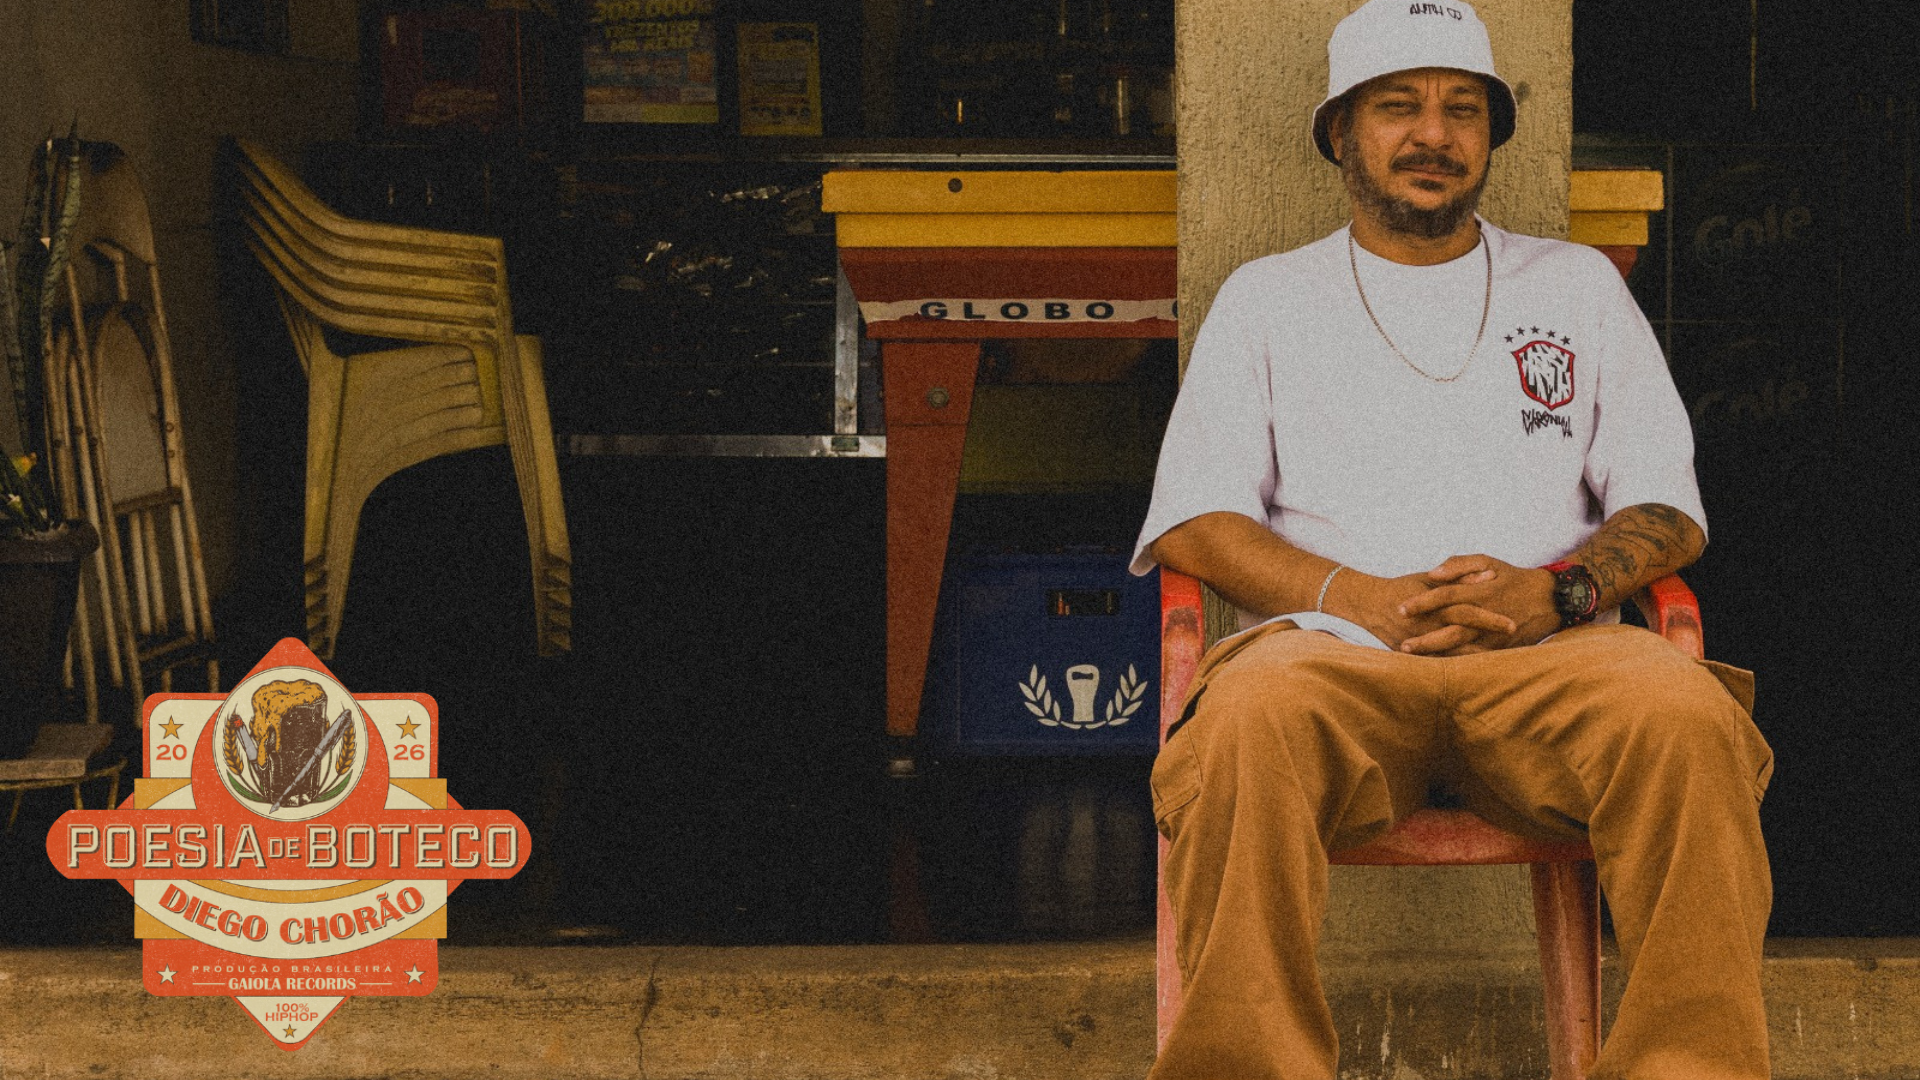
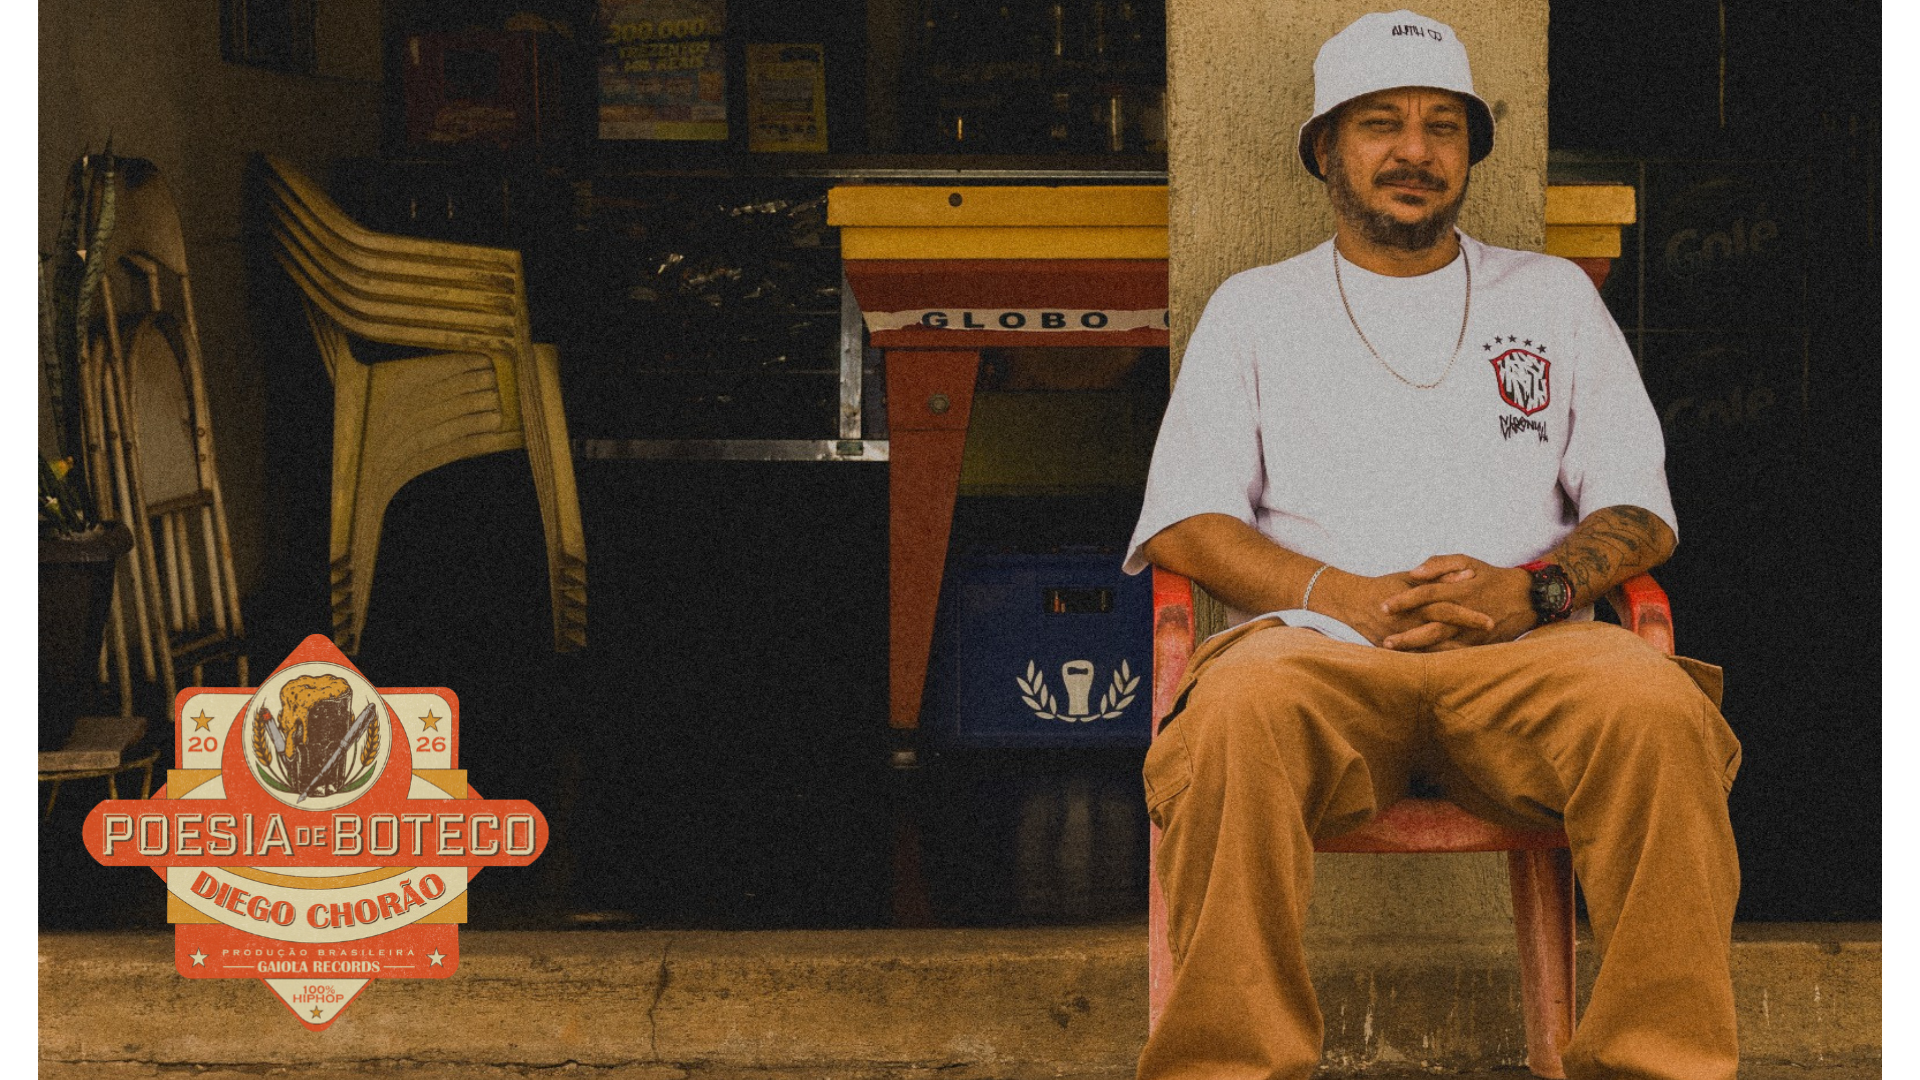
style: reduz espacamentos verticais apenas no mobile e atualiza bg

diff --git a/diego-chorao.html b/diego-chorao.html
@@ -171,7 +171,7 @@
     <div class="bg-[#0A0A0A]/85 backdrop-blur-sm border border-surface-variant p-4 md:p-6 rounded-2xl shadow-2xl w-full">
         <!-- Event Section Carousel -->
         <div class="relative overflow-hidden" id="shows-carousel">
-<div class="mb-4 md:mb-12 text-center w-full">
+<div class="mb-2 md:mb-12 text-center w-full">
 <div class="flex items-center justify-center gap-2 md:gap-6 w-full px-2 h-[64px] md:h-auto">
 <button onclick="prevSlide()" class="group flex items-center gap-1 md:gap-2 cursor-pointer transition-all shrink-0">
 <span class="text-[10px] font-bold tracking-widest opacity-40 group-hover:opacity-100 group-hover:text-primary transition-all uppercase hidden md:block">ANTERIOR</span>
@@ -195,7 +195,7 @@
 </button>
 
 <!-- Carousel Content -->
-<div class="w-full overflow-hidden pb-8 pt-4">
+<div class="w-full overflow-hidden pb-2 md:pb-8 pt-4">
 <div id="carousel-track" class="flex transition-transform duration-500 ease-in-out w-full" style="transform: translateX(0%);">
     
     <!-- Slide 1: Lançamento Poesia de Boteco -->
@@ -302,11 +302,11 @@
         </div>
         
         <!-- Divider -->
-        <hr class="border-surface-variant w-full my-12 opacity-50">
+        <hr class="border-surface-variant w-full my-4 md:my-12 opacity-50">
 
         <!-- Youtube Video Section -->
         <div class="w-full max-w-4xl mx-auto px-4 md:px-0">
-            <div class="mb-8 text-center"><h3 class="font-headline-md text-headline-md-mobile md:text-headline-md text-primary uppercase">SHOW COMPLETO NO YOUTUBE</h3></div>
+            <div class="mb-4 md:mb-8 text-center"><h3 class="font-headline-md text-headline-md-mobile md:text-headline-md text-primary uppercase">SHOW COMPLETO NO YOUTUBE</h3></div>
             <div class="w-full aspect-video bg-surface-container-low border border-surface-variant relative overflow-hidden shadow-2xl rounded-xl">
                 <iframe class="w-full h-full absolute inset-0" src="https://www.youtube.com/embed/r0i3lyR4_xA" title="YouTube video player" frameborder="0" allow="accelerometer; autoplay; clipboard-write; encrypted-media; gyroscope; picture-in-picture; web-share" allowfullscreen></iframe>
             </div>

diff --git a/edson-santana.html b/edson-santana.html
@@ -171,7 +171,7 @@
     <div class="bg-[#0A0A0A]/85 backdrop-blur-sm border border-surface-variant p-4 md:p-6 rounded-2xl shadow-2xl w-full">
         <!-- Event Section Carousel -->
         <div class="relative overflow-hidden" id="shows-carousel">
-<div class="mb-4 md:mb-12 text-center w-full">
+<div class="mb-2 md:mb-12 text-center w-full">
 <div class="flex items-center justify-center gap-2 md:gap-6 w-full px-2 h-[64px] md:h-auto">
 <button onclick="prevSlide()" class="group flex items-center gap-1 md:gap-2 cursor-pointer transition-all shrink-0">
 <span class="text-[10px] font-bold tracking-widest opacity-40 group-hover:opacity-100 group-hover:text-primary transition-all uppercase hidden md:block">ANTERIOR</span>
@@ -195,7 +195,7 @@
 </button>
 
 <!-- Carousel Content -->
-<div class="w-full overflow-hidden pb-8 pt-4">
+<div class="w-full overflow-hidden pb-2 md:pb-8 pt-4">
 <div id="carousel-track" class="flex transition-transform duration-500 ease-in-out w-full" style="transform: translateX(0%);">
     
     <!-- Slide 1: Festival de Inverno -->
@@ -309,11 +309,11 @@
         </div>
         
         <!-- Divider -->
-        <hr class="border-surface-variant w-full my-12 opacity-50">
+        <hr class="border-surface-variant w-full my-4 md:my-12 opacity-50">
 
         <!-- Youtube Video Section -->
         <div class="w-full max-w-4xl mx-auto px-4 md:px-0">
-            <div class="mb-8 text-center"><h3 class="font-headline-md text-headline-md-mobile md:text-headline-md text-primary uppercase">SHOW COMPLETO NO YOUTUBE</h3></div>
+            <div class="mb-4 md:mb-8 text-center"><h3 class="font-headline-md text-headline-md-mobile md:text-headline-md text-primary uppercase">SHOW COMPLETO NO YOUTUBE</h3></div>
             <div class="w-full aspect-video bg-surface-container-low border border-surface-variant relative overflow-hidden shadow-2xl rounded-xl">
                 <iframe class="w-full h-full absolute inset-0" src="https://www.youtube.com/embed/ZWCDqfTQXwI" title="YouTube video player" frameborder="0" allow="accelerometer; autoplay; clipboard-write; encrypted-media; gyroscope; picture-in-picture; web-share" allowfullscreen></iframe>
             </div>
